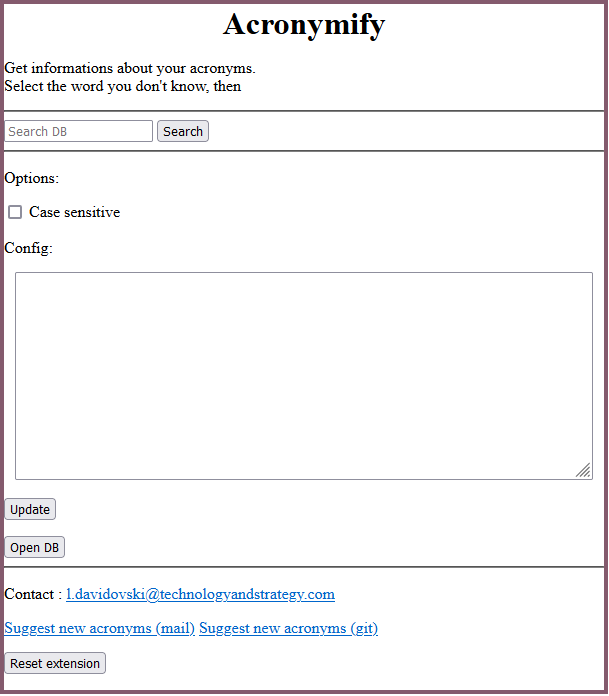
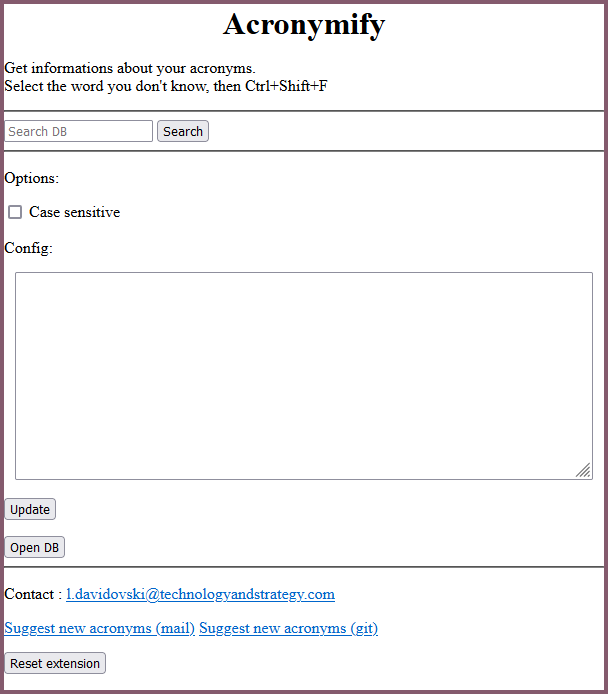
Update README + change popup image in README

diff --git a/README.md b/README.md
@@ -10,17 +10,15 @@ It recognizes all your acronyms on the web and show their definition.
 
 ![Main page](images/main_popup.PNG "Main page")
 
-Begin by selecting an online dataset to retrieve or by adding custom entries in the configuration section. Once you have clicked the "Update" button, you will be able to fully utilize Acronymify
+To start, select an online dataset to retrieve or add custom entries in the configuration section. Once you have clicked the "Update" button, you will be able to fully use Acronymify.
 
+Next, click on a word, and activate the extension by using the shortcut or clicking the extension logo. If the word's definition is known, it will be displayed.
 
-Click on a word, and open the extension (either by the shortcut or by clicking the extension logo). If its definition is known, it will be shown.
-
-You can also click the "Open DB" button to visualize all the words recognize by the extension.
-
+Additionally, you can click the "Open DB" button to view all the words recognized by the extension.
 
 ## Documentation
 
-Acronymify is a Firefox Extension.
+Acronymify is a Firefox extension.
 
 
 ### Overview
